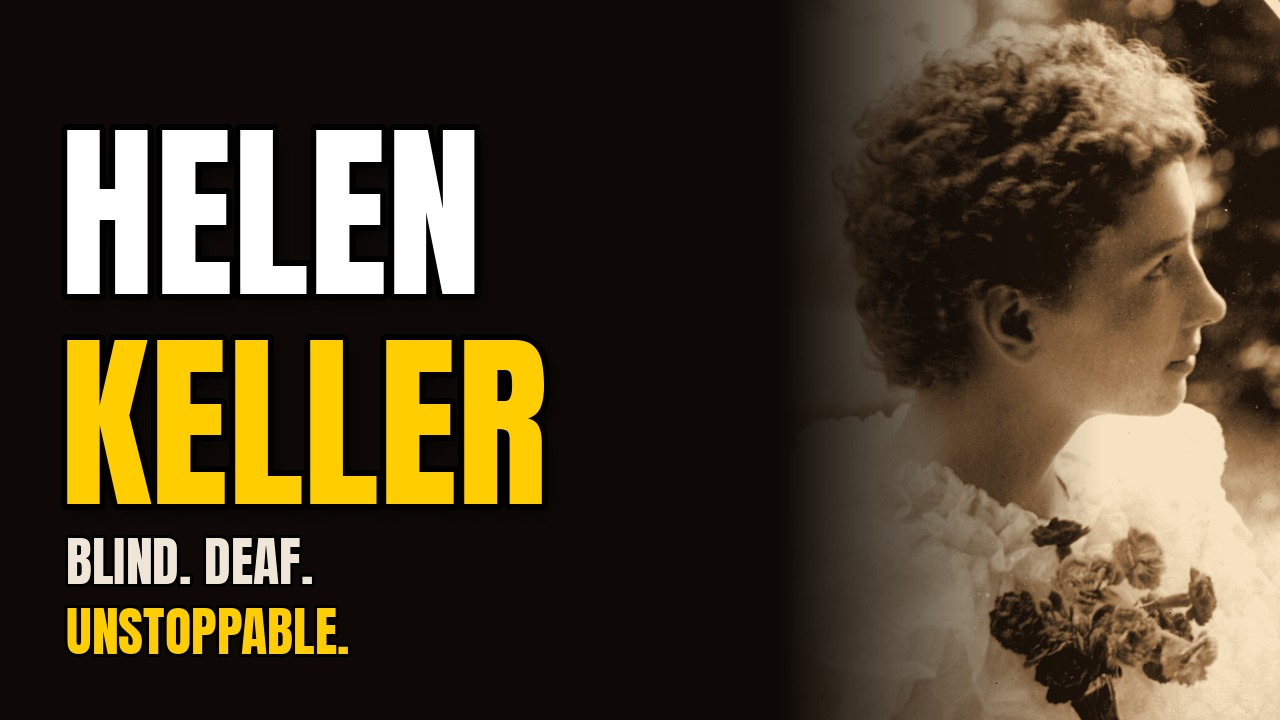
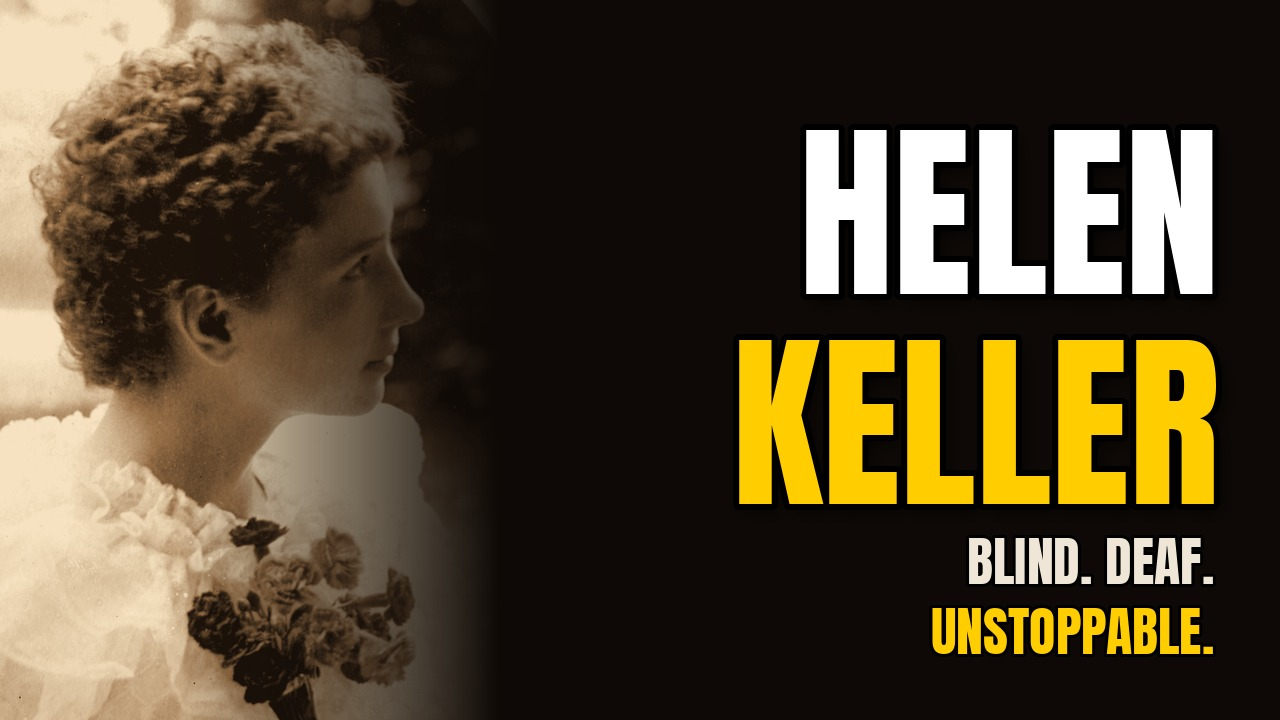
Thumbnail layout: face on the left, name on the right; record series rules
Add CLAUDE.md with the standing thumbnail and video conventions so they
apply to every future video without being repeated.

Claude-Session: https://claude.ai/code/session_01G9zRhtJGty7NpPX7RHTPHU

diff --git a/CLAUDE.md b/CLAUDE.md
@@ -1,0 +1,17 @@
+# ella: YouTube history documentaries
+
+This repo stores the scripts, photos, thumbnails, and YouTube text for each video, one folder per subject (e.g. `helen_keller/`). Narration and video rendering are done on the user's PC (the long-form kit in `롱폼생성기\projects\`), which holds the ElevenLabs key.
+
+## Thumbnail rules (always, no need to ask)
+- 1280x720 JPG, named `<Name>_thumbnail.jpg`.
+- **Face on the LEFT, name on the RIGHT.** The portrait fills the left side and fades into a dark background toward the centre. The name is right-aligned on the right side.
+- Use a real photo of the person, in sepia.
+- First name in white, last name in yellow, in a heavy condensed font (Anton) with a black outline and drop shadow. A short tagline (2 lines, e.g. "BLIND. DEAF." / "UNSTOPPABLE.") goes under the name, also right-aligned.
+- If the person faces sideways, pick or flip the photo so they look toward the name.
+
+## Video conventions
+- Language: English. Voice: ElevenLabs "Bill".
+- Pictures: real historical photos (public domain / no known restrictions, e.g. Library of Congress). The person's face appears only in real photos, never in AI images.
+- Before any paid step (TTS, image generation), show the estimated cost and get the user's approval.
+- Deliverables go to a Desktop folder "<이름> 영상": `<Name>_English.mp4`, `<Name>_English.srt`, `<Name>_thumbnail.jpg`, `<Name>_YouTube.txt`.
+- `<Name>_YouTube.txt` sections: TITLE, DESCRIPTION, [Time Line] (chapter timestamps from the final narration audio), TAGS.
